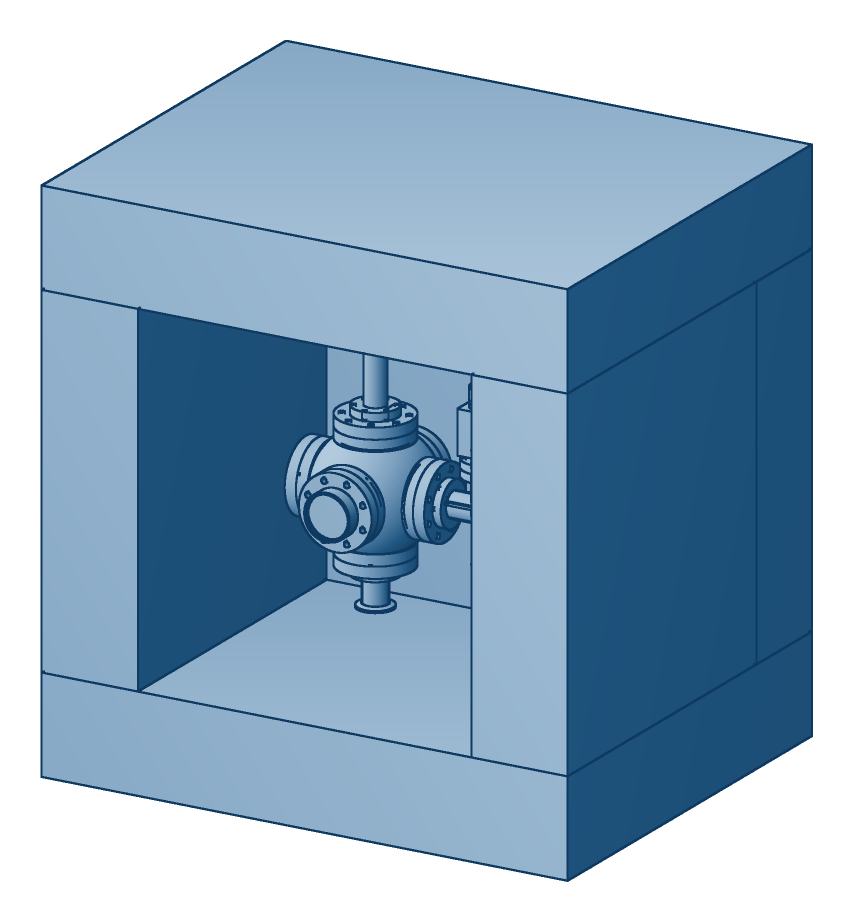
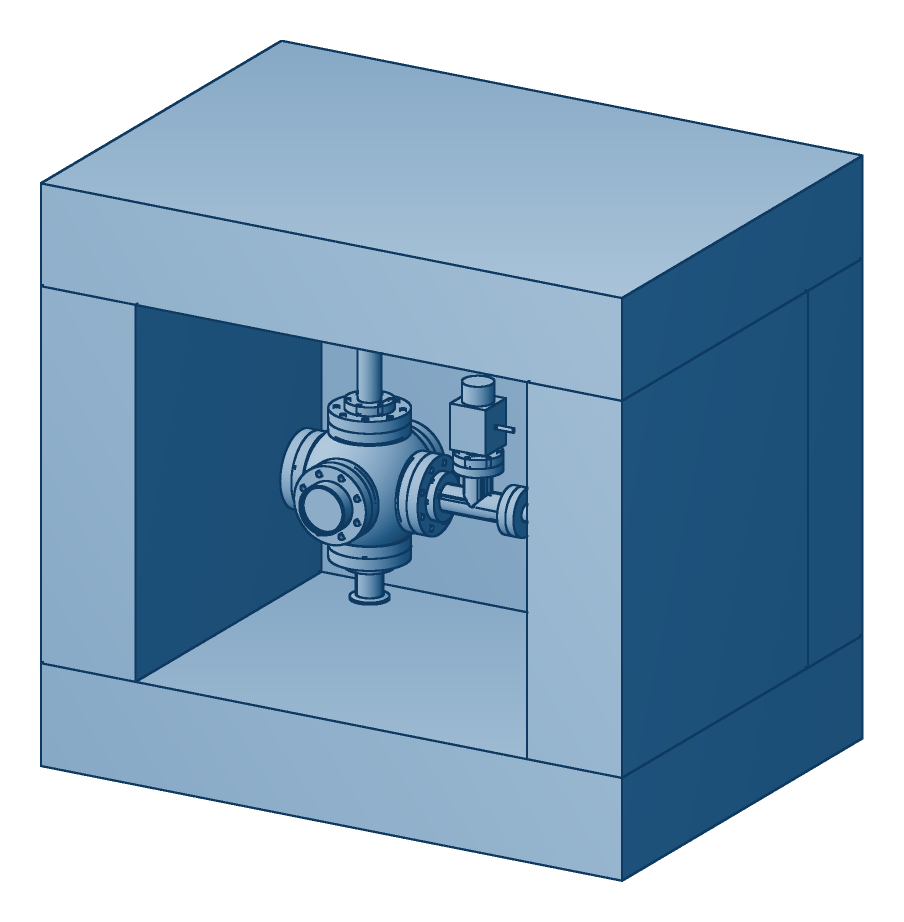
docs(videos): open fusor — castle clears the plumbing; state what was not re-priced

diff --git a/docs/videos/open-fusor.md b/docs/videos/open-fusor.md
@@ -5,8 +5,8 @@ neutrons, and put the measurement on the same plot as vcad's prediction.
 the climax is that plot.
 
 this is a plan plus a proof of concept. nothing has been ordered, built,
-filmed or published. every number below came from code on `origin/main`
-(`4ac21aab`), run on `mew`. the doc says where code and docs disagree.
+filmed or published. the numbers in §1–§6 came from code on `origin/main`
+at `4ac21aab`, run on `mew`; the block below is from main at `93b5124d`. the doc says where code and docs disagree.
 
 **where it stands (2026-11-17).** the first version of this doc ranked twelve
 gaps. ten of them have since landed on main (§6 has the list), and the
@@ -37,8 +37,10 @@ this block has the current one and names its source.
   2.5); at −40 kV, 4.8 mSv/h (upper edge 10.8). 8 mm of lead glass or a
   3 mm steel shutter takes the window path to nothing, leaving the wall
   term: 0.003 µSv/h at −30 kV, but 9.4 µSv/h at −40 kV through a 1.65 mm
-  wall. so the redesign uses leaded-glass viewports, and −40 kV needs a
-  thicker wall or a lead skirt. the ICRP-74 conversion coefficients for
+  wall. so the redesign uses leaded-glass viewports. that case is not this
+  machine, though: the cube's wall is 11 mm or more (the wall term falls
+  ~200× by 3 mm), its DN63 windows have 2.9× the aperture area, and the
+  catalog models 5.2 mm of glass, not 8. it has not been re-priced. the ICRP-74 conversion coefficients for
   10–40 keV in that model were transcribed, not independently checked.
 - **neutron dose, with the room** (`docs/neutronics-m0.md`,
   `examples/fusor_room.rs`; 5×10⁶ n/s safety bound, 15 cm HDPE castle):
@@ -47,10 +49,12 @@ this block has the current one and names its source.
   gammas add about a fifth behind the HDPE (1.79 µSv/h total at 2 m free
   field, upper edge 2.32, against a 2.5 budget). at the predicted 1.9×10³
   n/s all of these scale down by 2 600×.
-- **CAD, sim and screen are connected for the ring-stack twin.**
-  `vcad_eval::sim_extract` reads `fusor-sim.loon` into the solver's
-  `DeviceSpec`, and vcad.app has the particle and neutron screens. the
-  globe machine is not extractable yet (spherical cavity, crossing wires).
+- **CAD → sim extraction exists, for a clean ring-stack document.**
+  `vcad_eval::sim_extract` turns a can-plus-rings document into the solver's
+  `DeviceSpec` (tested in `crates/vcad-eval/tests/sim_extract_fusor.rs`),
+  and vcad.app has the particle and neutron screens. neither file here goes
+  through it as written: the globe machine has a spherical cavity and
+  crossing wires, and `fusor-sim.loon` has a section cut and a stalk.
 
 still open: the two-sided chain on the 3D globe; the secondary-emission
 coefficient in the current partition is uncited; the MCP
@@ -86,8 +90,8 @@ stalk (tip at z = 19.7 mm, on the grid pole), leaded-glass viewports, a KF40
 pump line, and a tee carrying the gauge and the D₂ leak valve. the cathode is
 six great circles of 2 mm wire on a 19 mm sphere, the layout the 3D solver
 uses. the catalog cavity radius is 79.9 mm against the 76 mm every simulation
-assumes (+5%). the whole document evaluates in 24 s on mew at main
-`93b5124d`. the first-pass cylinder-and-ring-stack geometry is kept as
+assumes (+5%). on mew at main `93b5124d` the 21-root document evaluated in
+24 s with 8 roots served from the geometry cache; no cold timing was taken. the first-pass cylinder-and-ring-stack geometry is kept as
 [`open-fusor/fusor-sim.loon`](open-fusor/fusor-sim.loon).*
 
 ![shielded](open-fusor/shielded.png)
@@ -95,7 +99,8 @@ assumes (+5%). the whole document evaluates in 24 s on mew at main
 *the same machine inside the 15 cm HDPE castle
 ([`open-fusor/castle.loon`](open-fusor/castle.loon)), front panel off. the
 wall thickness is the one the room dose map prices. the cavity is larger than
-that model's 150 mm half-cube, because the real plumbing does not fit in it.*
+that model's 150 mm half-cube, because the real plumbing does not fit in it;
+the transport has not been rerun on this cavity.*
 
 ---
 
@@ -308,7 +313,8 @@ with radiation-safety credentials.
    discipline, interlocked enclosure, key switch, e-stop, **never alone**.
    the camera operator is a second person in the room, so they need the
    same briefing and fixed positions.
-2. **x-rays: the dominant radiation hazard, and vcad doesn't model it.**
+2. **x-rays: the dominant radiation hazard.** (written before
+   `docs/photon-dose-m0.md` existed; the top of this doc has its numbers.)
    above ~20 kV, electrons striking the chamber wall produce
    bremsstrahlung. steel walls attenuate well; **glass viewports are the
    leak path.** that's exactly where a "look inside" camera wants to be. no
